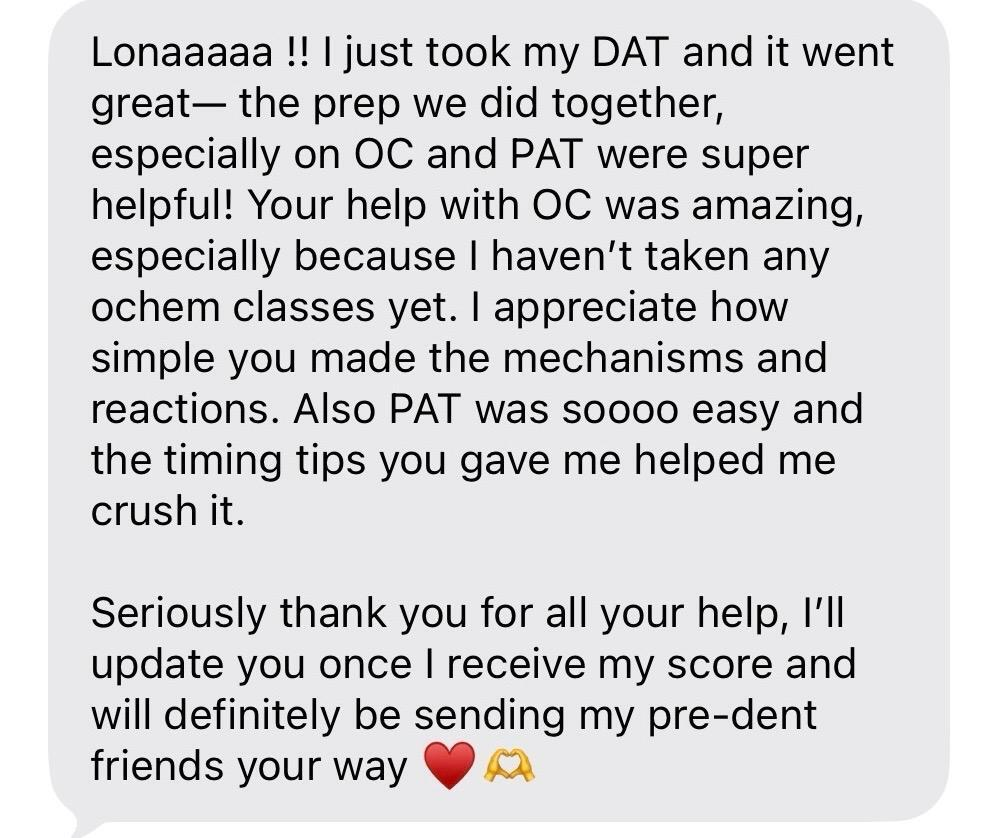
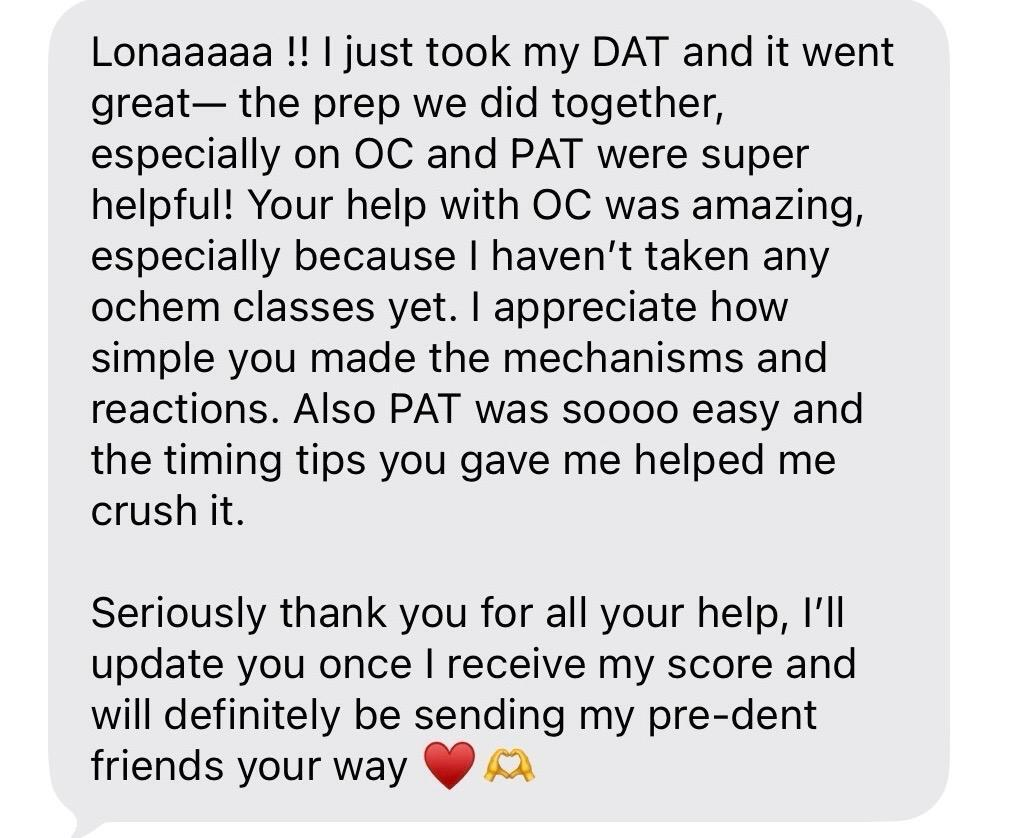
polish: re-crop proofs at full res, drop CSS object-fit (images now self-contained)

Changed region(s): [[0.093, 0.031, 0.899, 0.6516], [0.093, 0.7136, 0.868, 0.9618]]

diff --git a/docs/css/styles.css b/docs/css/styles.css
@@ -830,9 +830,6 @@ section { padding: var(--section-y) 0; position: relative; }
   display: block;
   width: 100%;
   height: auto;
-  max-height: 380px;
-  object-fit: cover;
-  object-position: top center;
 }
 .story-proof .proof-label {
   display: flex;
